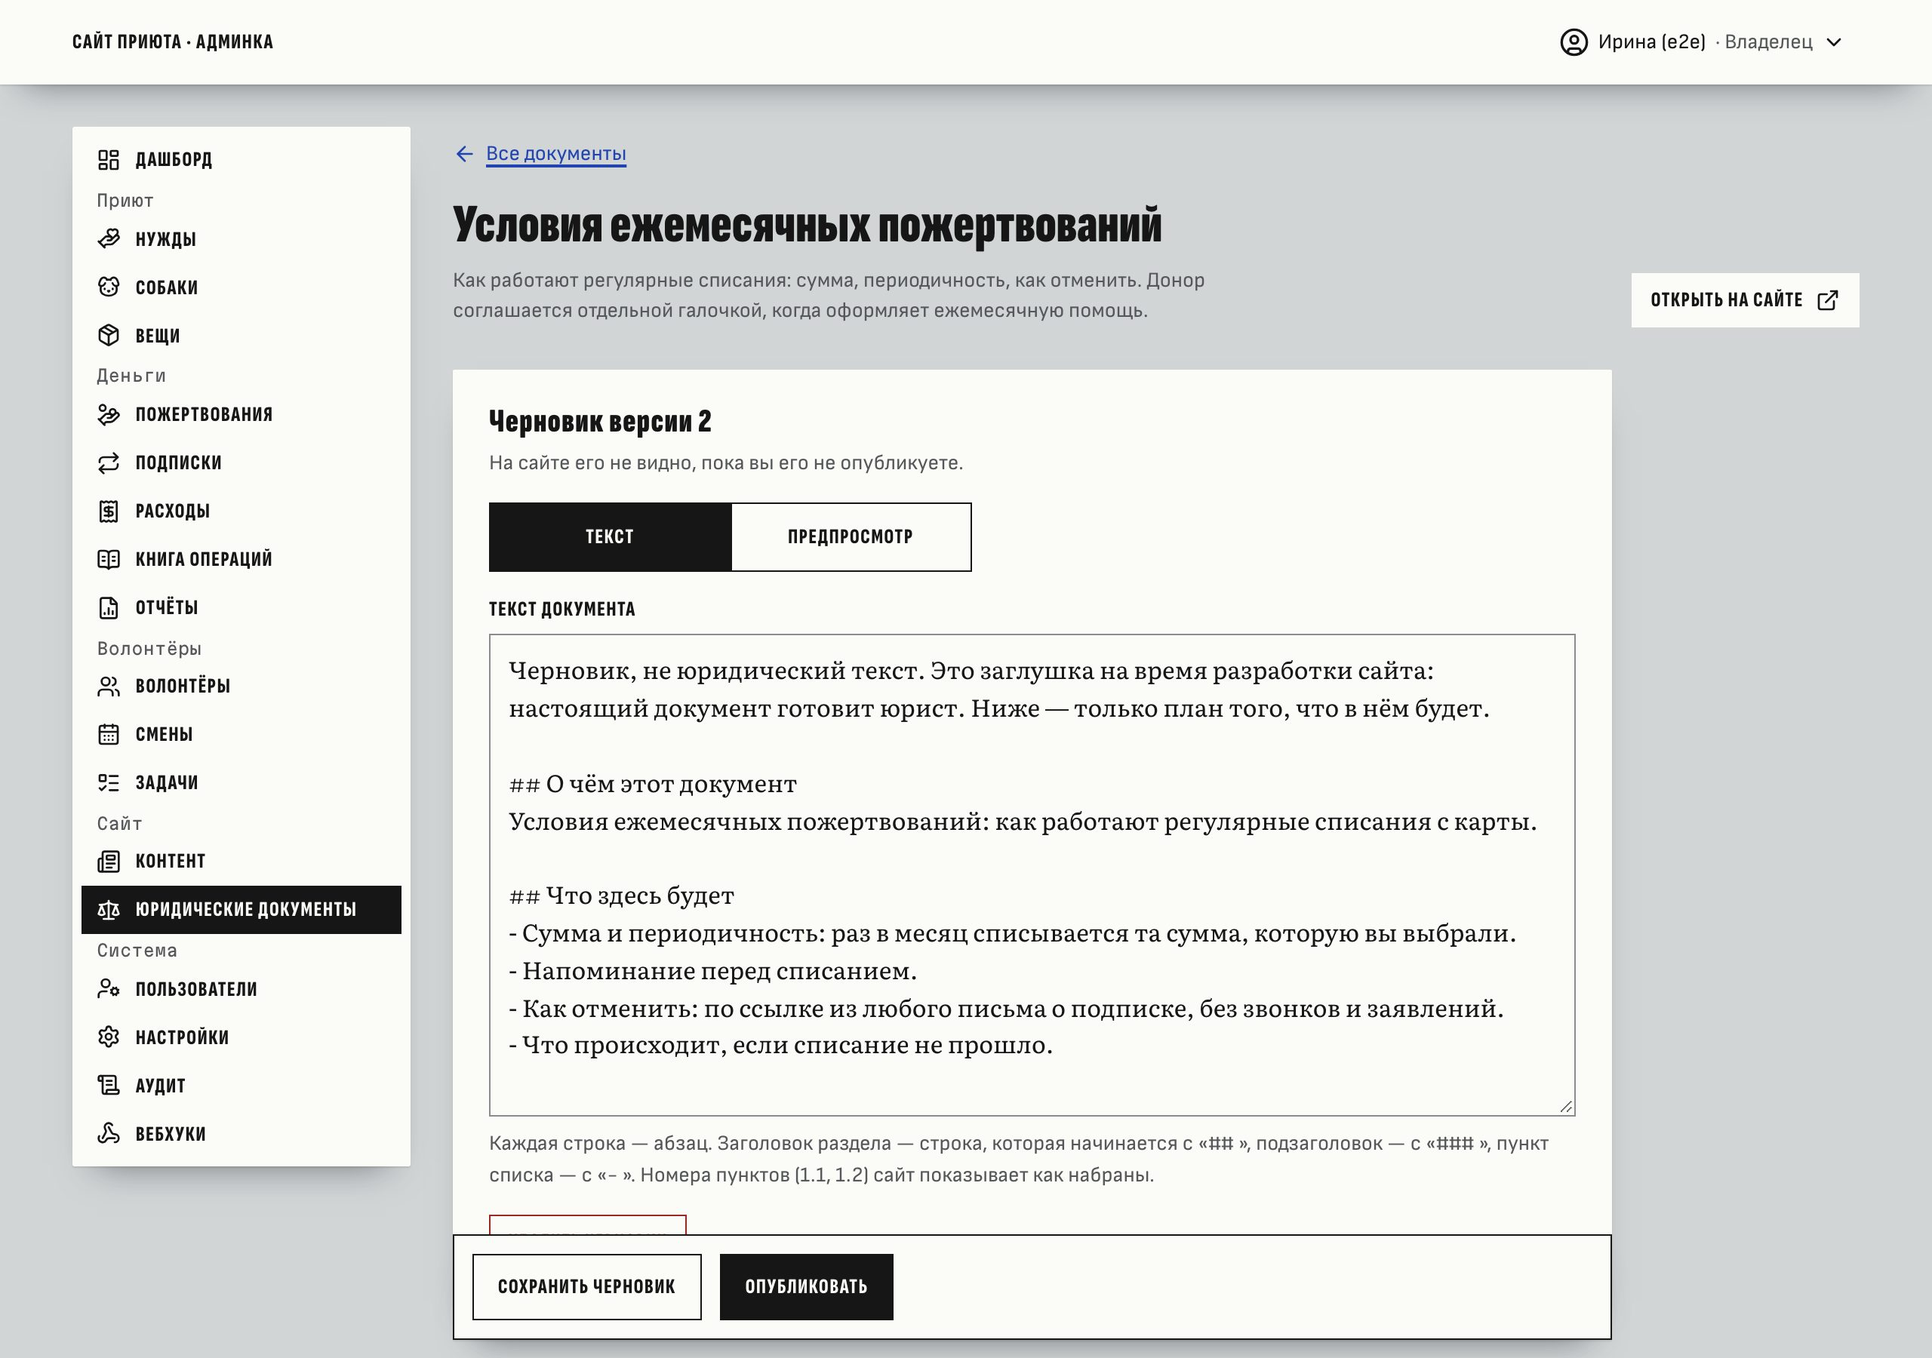
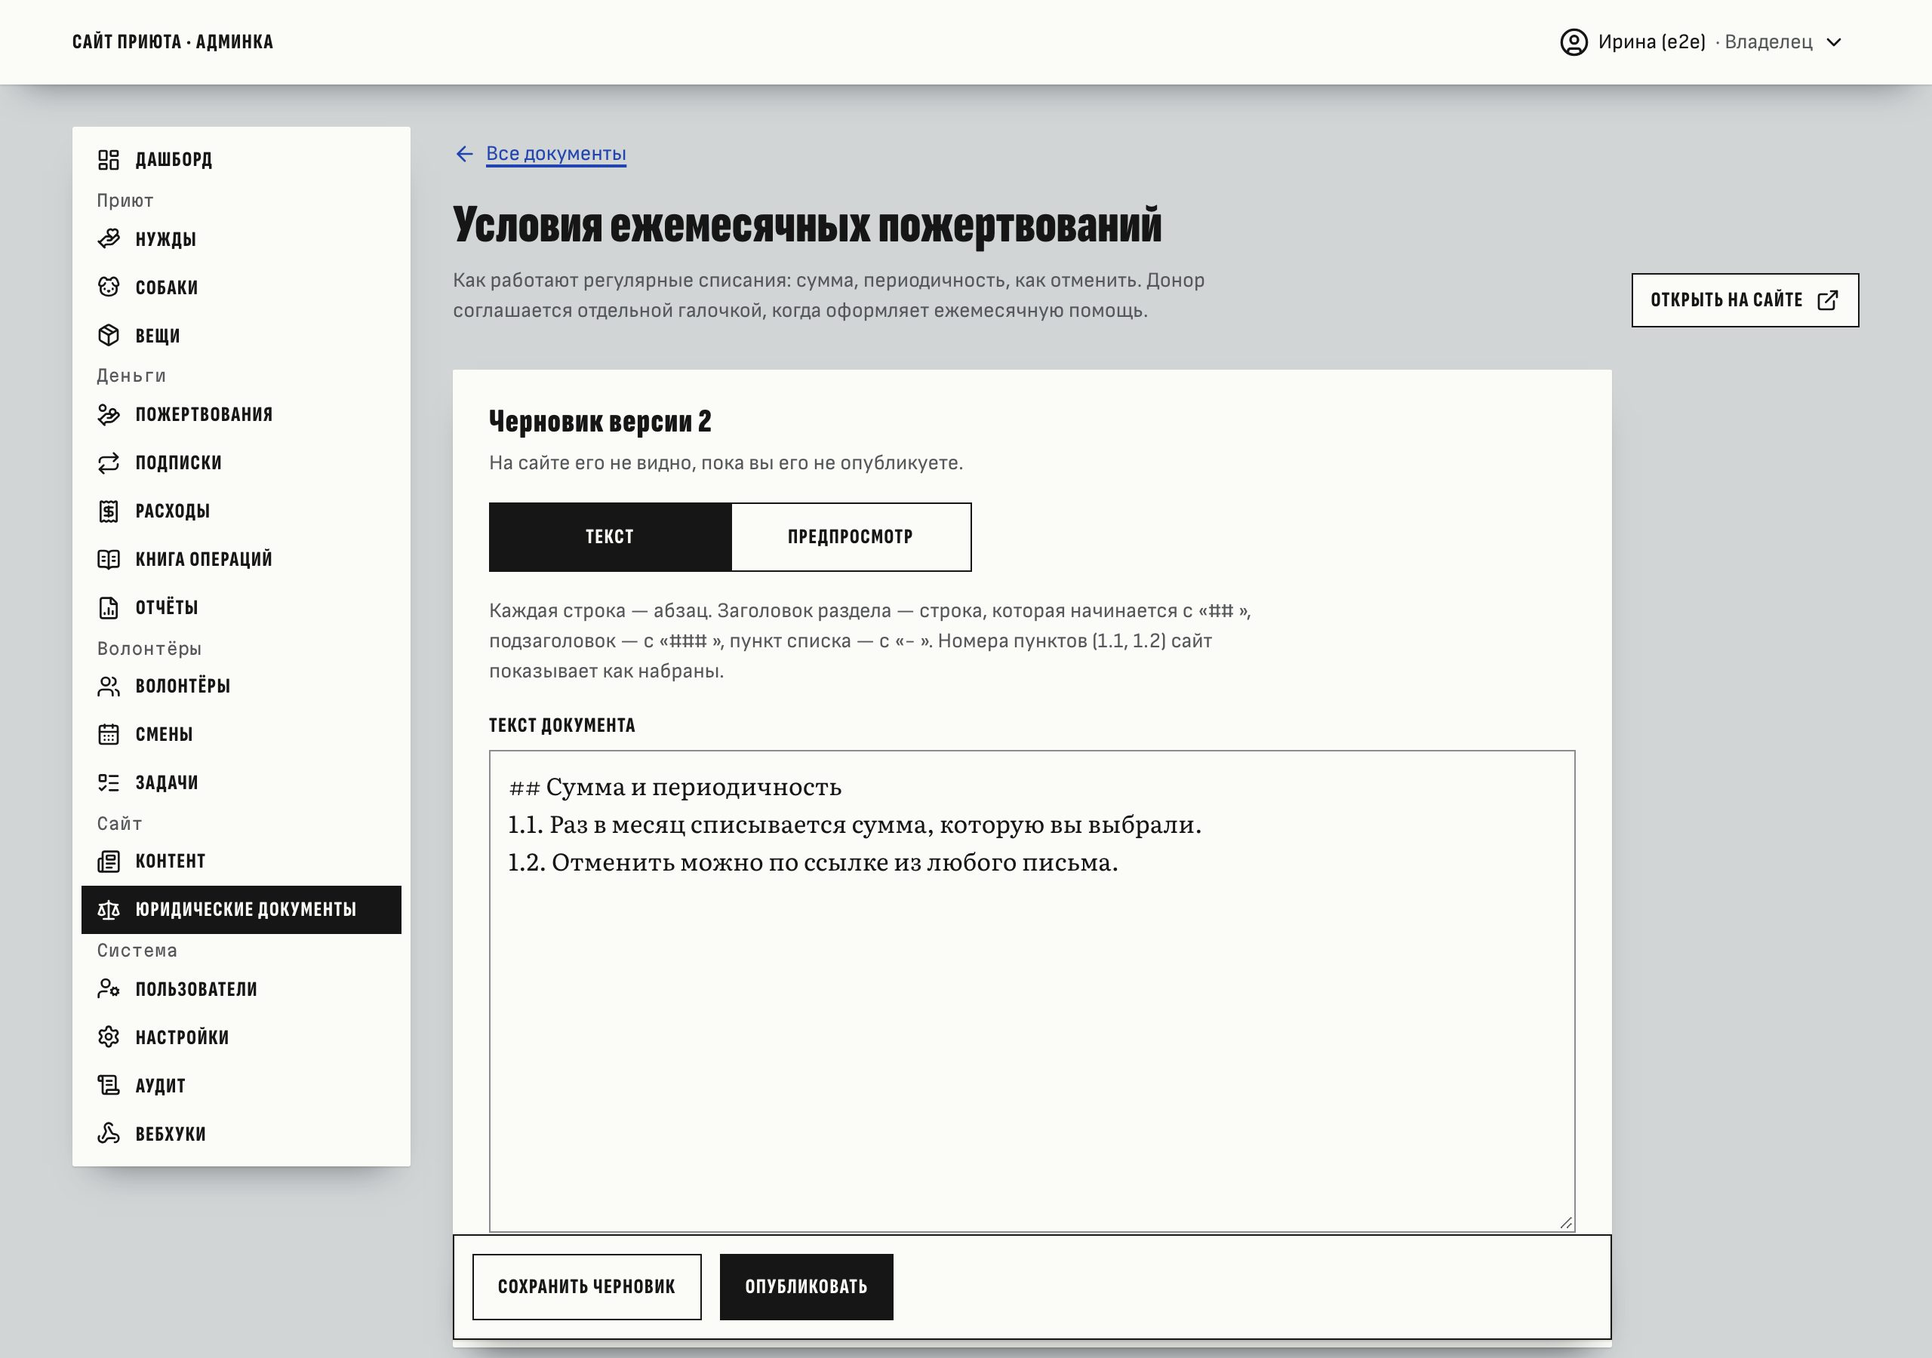
fix(legal): address the UI review
- An error of the draft's text stays right under the field: the markup
  hint moved above it, out of the sticky bar's way.
- The result of unsubscribing takes the focus and names itself in the
  title; the duplicate link to the site is gone.
- Section headings of a document are a step below the page's title at
  every width; short prepositions stay with the next word (typeset()).
- Outline links get their frame through cn(); required consent boxes say
  so to a screen reader; a version that lasted less than a day shows one
  date.

diff --git a/src/app/unsubscribe/[token]/page.tsx b/src/app/unsubscribe/[token]/page.tsx
@@ -1,20 +1,30 @@
 import { MailCheck, MailQuestion } from "lucide-react";
 import type { Metadata } from "next";
-import Link from "next/link";
 import { LegalSheet, LegalShell } from "@/components/legal/legal-shell";
-import { buttonVariants } from "@/components/ui/button";
 import { maskEmail } from "@/lib/pii";
 import { getDb } from "@/server/db";
 import { marketingConsentState } from "@/server/legal";
 import { getSettings } from "@/server/settings";
 import { unsubscribe } from "./actions";
+import { ResultHeading } from "./result-heading";
 import { UnsubscribeButton } from "./unsubscribe-button";
 
 // The link at the bottom of every newsletter (unsubscribeUrl()). Opening it
 // withdraws nothing — mail scanners follow links — the button does.
 
-export const metadata: Metadata = {
-  title: "Отписка от рассылки",
+export async function generateMetadata({
+  params,
+}: PageProps<"/unsubscribe/[token]">): Promise<Metadata> {
+  const { status } = await marketingConsentState(getDb(), (await params).token);
+  return {
+    // The title changes with the page: it is what a screen reader and a
+    // browser without JavaScript announce after the button.
+    title: status === "withdrawn" ? "Вы отписаны" : "Отписка от рассылки",
+    ...SHARED_METADATA,
+  };
+}
+
+const SHARED_METADATA: Metadata = {
   robots: { index: false },
   // The address is a secret: don't hand it to other sites in the Referer.
   // Not "no-referrer": the form's own POST would then come with
@@ -67,7 +77,7 @@ export default async function UnsubscribePage({
       <LegalShell>
         <LegalSheet className="grid max-w-xl gap-4">
           <MailCheck aria-hidden className="size-8 text-success" />
-          <h1 className="text-section">Вы&nbsp;отписаны</h1>
+          <ResultHeading>Вы&nbsp;отписаны</ResultHeading>
           <p className="max-w-prose">
             Новости приюта больше не&nbsp;придут
             {address && (
@@ -78,17 +88,12 @@ export default async function UnsubscribePage({
               </>
             )}
             . Письма о&nbsp;ваших пожертвованиях и&nbsp;ежемесячной помощи
-            приходить продолжат: это не&nbsp;рассылка.
+            продолжат приходить: это не&nbsp;рассылка.
           </p>
           <p className="max-w-prose text-caption text-toner-muted">
             Передумаете — отметьте «Хочу получать новости» при следующем
             пожертвовании.
           </p>
-          <div>
-            <Link href="/" className={buttonVariants({ variant: "outline" })}>
-              На сайт приюта
-            </Link>
-          </div>
         </LegalSheet>
       </LegalShell>
     );

diff --git a/src/components/legal/consent-checkboxes.tsx b/src/components/legal/consent-checkboxes.tsx
@@ -54,6 +54,11 @@ type ConsentCheckboxesProps<
    * was given to another sum.
    */
   recurringTerms?: string;
+  /**
+   * The boxes the form can't go without — the `required` of consentsSchema():
+   * a screen reader says so before the form is sent.
+   */
+  required?: readonly LegalDocumentType[];
   className?: string;
 };
 
@@ -75,6 +80,7 @@ export function ConsentCheckboxes<
   name,
   documents,
   recurringTerms,
+  required = [],
   className,
 }: ConsentCheckboxesProps<Values, Name, Output>) {
   return (
@@ -90,6 +96,7 @@ export function ConsentCheckboxes<
             <ConsentBox
               document={document}
               recurringTerms={recurringTerms}
+              required={required.includes(document.type)}
               name={field.name}
               value={typeof field.value === "string" ? field.value : NOT_GIVEN}
               onChange={field.onChange}
@@ -109,6 +116,7 @@ export function ConsentCheckboxes<
 function ConsentBox({
   document,
   recurringTerms,
+  required,
   name,
   value,
   onChange,
@@ -120,6 +128,7 @@ function ConsentBox({
 }: {
   document: ConsentDocument;
   recurringTerms: string | undefined;
+  required: boolean;
   name: string;
   value: ConsentValue;
   onChange: (value: ConsentValue) => void;
@@ -173,6 +182,7 @@ function ConsentBox({
         onBlur={onBlur}
         inputRef={inputRef}
         disabled={disabled}
+        aria-required={required || undefined}
         aria-invalid={invalid || undefined}
         aria-describedby={
           [hint && `${id}-hint`, invalid && `${id}-error`]
@@ -209,12 +219,15 @@ function consentText(
 
   switch (type) {
     case "OFFER":
-      return { label: <>Принимаю условия {link("оферты о пожертвовании")}</> };
+      return {
+        label: <>Принимаю условия {link("оферты о\u00A0пожертвовании")}</>,
+      };
     case "PD_CONSENT":
       return {
         label: (
           <>
-            Даю {link("согласие на обработку персональных данных")} по&nbsp;
+            Даю {link("согласие на\u00A0обработку персональных данных")}{" "}
+            по&nbsp;
             <DocumentLink href={legalHref("PRIVACY")}>
               политике приюта
             </DocumentLink>
@@ -246,7 +259,7 @@ function consentText(
         label: (
           <>
             Хочу получать новости приюта на&nbsp;почту —{" "}
-            {link("согласие на рассылку")}
+            {link("согласие на\u00A0рассылку")}
           </>
         ),
         hint: "Необязательно. Отписаться можно по ссылке в любом письме.",

diff --git a/src/app/admin/(staff)/legal/[slug]/draft-form.tsx b/src/app/admin/(staff)/legal/[slug]/draft-form.tsx
@@ -89,11 +89,18 @@ export function DraftForm({ draft, title }: { draft: Draft; title: string }) {
             </TabsList>
             {/* Mounted while hidden: the field keeps its errors and its focus target. */}
             <TabsContent value="text" keepMounted>
+              {/* Above the field, not under it: an error must stay right
+                  below the field, where the sticky bar doesn't cover it. */}
+              <p className="mb-4 max-w-prose text-caption text-toner-muted">
+                Каждая строка — абзац. Заголовок раздела — строка, которая
+                начинается с&nbsp;«##&nbsp;», подзаголовок — с&nbsp;«###&nbsp;»,
+                пункт списка — с&nbsp;«-&nbsp;». Номера пунктов (1.1, 1.2) сайт
+                показывает как набраны.
+              </p>
               <TextareaField
                 control={form.control}
                 name="body"
                 label="Текст документа"
-                description="Каждая строка — абзац. Заголовок раздела — строка, которая начинается с «## », подзаголовок — с «### », пункт списка — с «- ». Номера пунктов (1.1, 1.2) сайт показывает как набраны."
                 spellCheck
                 autoComplete="off"
                 // On a phone the field grows with the text and the page scrolls;
@@ -149,8 +156,7 @@ export function DraftForm({ draft, title }: { draft: Draft; title: string }) {
           </div>
           {isDirty && !isSubmitting && (
             <p className="text-caption text-toner-muted">
-              Есть несохранённые изменения. Публикуется сохранённый текст —
-              сначала сохраните черновик.
+              Сначала сохраните черновик — публикуется сохранённый текст.
             </p>
           )}
         </FormActions>

diff --git a/e2e/legal.spec.ts b/e2e/legal.spec.ts
@@ -64,6 +64,24 @@ test("the owner publishes a new version and the document's page shows it", async
   const version = Number(/\d+/.exec(draftHeading ?? "")?.[0]);
   expect(version).toBeGreaterThanOrEqual(1);
 
+  // An empty text is refused at the field, and the message is not hidden
+  // under the sticky bar with the buttons.
+  const save = page.getByRole("button", { name: "Сохранить черновик" });
+  await editor.fill("");
+  await save.click();
+  const emptyError = page.getByText("Введите текст документа.");
+  await expect(emptyError).toBeVisible();
+  await expect(editor).toBeFocused();
+  await expect
+    .poll(async () => {
+      const [error, bar] = await Promise.all([
+        emptyError.boundingBox(),
+        save.boundingBox(),
+      ]);
+      return error && bar ? bar.y - (error.y + error.height) : -1;
+    })
+    .toBeGreaterThanOrEqual(0);
+
   // An address without a single space: it must wrap, not widen the page.
   const longUrl = `https://priyut.example/${"ochen-dlinnyy-adres/".repeat(8)}`;
   await editor.fill(
@@ -76,7 +94,7 @@ test("the owner publishes a new version and the document's page shows it", async
     exact: true,
   });
   await expect(publish).toBeDisabled();
-  await page.getByRole("button", { name: "Сохранить черновик" }).click();
+  await save.click();
   await expect(page.getByText("Черновик сохранён")).toBeVisible();
 
   // Left and reached again through the browser's history, the editor has
@@ -223,6 +241,10 @@ for (const variant of UNSUBSCRIBE_VARIANTS) {
 
       await page.getByRole("button", { name: "Отписаться" }).click();
       await expect(done).toBeVisible();
+      // The page changed under the reader: its title says what happened,
+      // and with JavaScript the result takes the focus.
+      await expect(page).toHaveTitle(/Вы отписаны/);
+      if (variant === "js") await expect(done).toBeFocused();
 
       // For good: the link now only says so.
       await page.goto(link);

diff --git a/src/components/legal/legal-text.tsx b/src/components/legal/legal-text.tsx
@@ -1,10 +1,14 @@
 import { cn } from "@/lib/utils";
+// Pure, like the catalog: the same line-breaking rules the letters use.
+import { typeset } from "@/server/email/typography";
 import { parseLegalInline, parseLegalText } from "./parse-legal-text";
 
 /**
  * The text of a legal document as people read it: Literata at a reading
  * measure, clause numbers as typed. The markup is in parse-legal-text.ts.
- * Renders React elements only, so the text can't inject markup.
+ * Renders React elements only, so the text can't inject markup. Short
+ * prepositions are glued to the next word for showing; the stored text and
+ * its hash are left alone.
  */
 export function LegalText({
   body,
@@ -24,13 +28,18 @@ export function LegalText({
       {parseLegalText(body).map((block, index) => {
         switch (block.kind) {
           case "heading":
+            // A step below the page's title at every width: on a phone the
+            // title itself is 30 px.
             return block.level === 2 ? (
-              <h2 key={index} className="mt-8 mb-3 text-title first:mt-0">
-                {block.text}
+              <h2 key={index} className="mt-8 mb-3 text-button first:mt-0">
+                {typeset(block.text)}
               </h2>
             ) : (
-              <h3 key={index} className="mt-6 mb-2 text-button first:mt-0">
-                {block.text}
+              <h3
+                key={index}
+                className="mt-6 mb-2 font-reading text-body leading-snug font-bold first:mt-0"
+              >
+                {typeset(block.text)}
               </h3>
             );
           case "list":
@@ -70,7 +79,7 @@ function Inline({ text }: { text: string }) {
         {part.href}
       </a>
     ) : (
-      part.text
+      typeset(part.text)
     ),
   );
 }

diff --git a/src/app/legal/legal-document-view.tsx b/src/app/legal/legal-document-view.tsx
@@ -25,6 +25,15 @@ export function LegalDocumentView({
   // Legal dates always carry the year.
   const date = (iso: string) =>
     formatDate(new Date(iso), { timeZone, year: "always" });
+  /** «с 1 по 11 октября» reads oddly when a version lasted less than a day. */
+  const period = (from: string, to: string) =>
+    date(from) === date(to) ? (
+      date(from)
+    ) : (
+      <>
+        с&nbsp;{date(from)} по&nbsp;{date(to)}
+      </>
+    );
 
   if (!document) {
     return (
@@ -65,8 +74,8 @@ export function LegalDocumentView({
                 <>действует с&nbsp;{date(document.effectiveAt)}</>
               ) : (
                 <>
-                  действовала с&nbsp;{date(document.effectiveAt)} по&nbsp;
-                  {date(replacedBy.effectiveAt)}
+                  действовала{" "}
+                  {period(document.effectiveAt, replacedBy.effectiveAt)}
                 </>
               )}
             </p>
@@ -129,10 +138,7 @@ export function LegalDocumentView({
                     </span>
                     <span className="font-mono text-mono text-toner-muted">
                       {next ? (
-                        <>
-                          с&nbsp;{date(item.effectiveAt)} по&nbsp;
-                          {date(next.effectiveAt)}
-                        </>
+                        period(item.effectiveAt, next.effectiveAt)
                       ) : (
                         <>действует с&nbsp;{date(item.effectiveAt)}</>
                       )}

diff --git a/src/app/admin/(staff)/legal/[slug]/page.tsx b/src/app/admin/(staff)/legal/[slug]/page.tsx
@@ -62,7 +62,11 @@ export default async function LegalDocumentAdminPage({
                 href={legalHref(type)}
                 target="_blank"
                 rel="noopener"
-                className={buttonVariants({ variant: "outline", size: "sm" })}
+                // cn() settles the variant's frame against the base's
+                // transparent one.
+                className={cn(
+                  buttonVariants({ variant: "outline", size: "sm" }),
+                )}
               >
                 Открыть на сайте
                 <ExternalLink aria-hidden />
@@ -142,7 +146,7 @@ export default async function LegalDocumentAdminPage({
                         href={legalHref(type, version.version)}
                         target="_blank"
                         rel="noopener"
-                        className="text-pen underline hover:decoration-[3px]"
+                        className="inline-flex min-h-9 items-center text-pen underline hover:decoration-[3px]"
                       >
                         Версия {version.version}
                         <span className="sr-only"> (в новой вкладке)</span>

diff --git a/src/app/unsubscribe/[token]/result-heading.tsx b/src/app/unsubscribe/[token]/result-heading.tsx
@@ -1,0 +1,21 @@
+"use client";
+
+import { useEffect, useRef, type ReactNode } from "react";
+
+/**
+ * The heading of what the button did. It takes the focus when it appears:
+ * the button that was pressed is gone, and a screen reader would otherwise
+ * be left on a page that changed without a word.
+ */
+export function ResultHeading({ children }: { children: ReactNode }) {
+  const heading = useRef<HTMLHeadingElement>(null);
+  useEffect(() => {
+    heading.current?.focus();
+  }, []);
+
+  return (
+    <h1 ref={heading} tabIndex={-1} className="text-section">
+      {children}
+    </h1>
+  );
+}

diff --git a/src/app/admin/(staff)/legal/[slug]/new-draft.tsx b/src/app/admin/(staff)/legal/[slug]/new-draft.tsx
@@ -23,7 +23,7 @@ export function NewDraft({
   const { run, pending, failure } = useAdminAction();
 
   return (
-    <Panel title={`Версия ${version}`} className="max-w-3xl">
+    <Panel title="Новая версия" className="max-w-3xl">
       <p className="max-w-prose">
         {currentVersion === null ? (
           <>

diff --git a/src/app/dev/ui/sections/form-demo.tsx b/src/app/dev/ui/sections/form-demo.tsx
@@ -293,6 +293,7 @@ export function FormDemo() {
               : document,
           )}
           recurringTerms={`${monthlySum} каждый месяц`}
+          required={["OFFER", "PD_CONSENT", "RECURRING"]}
         />
         <div className="grid gap-1.5">
           <Button
